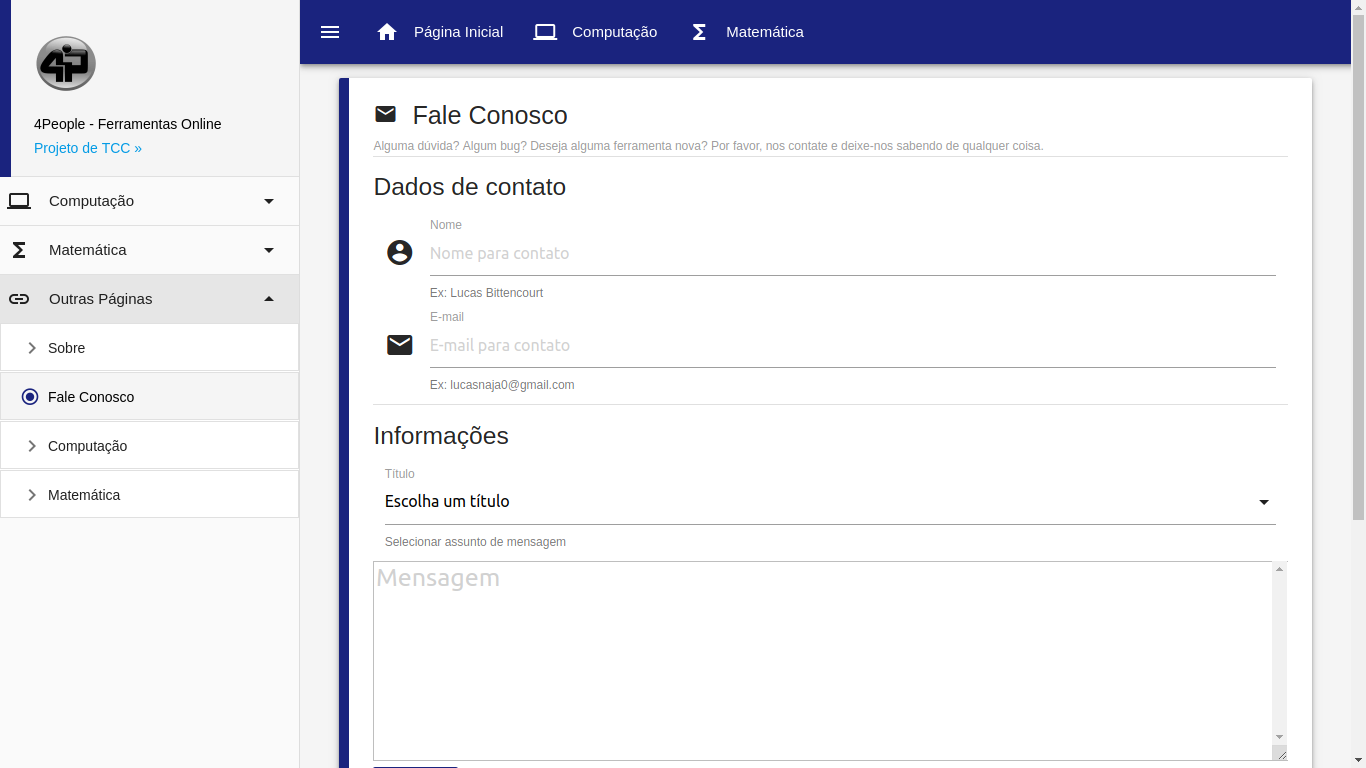
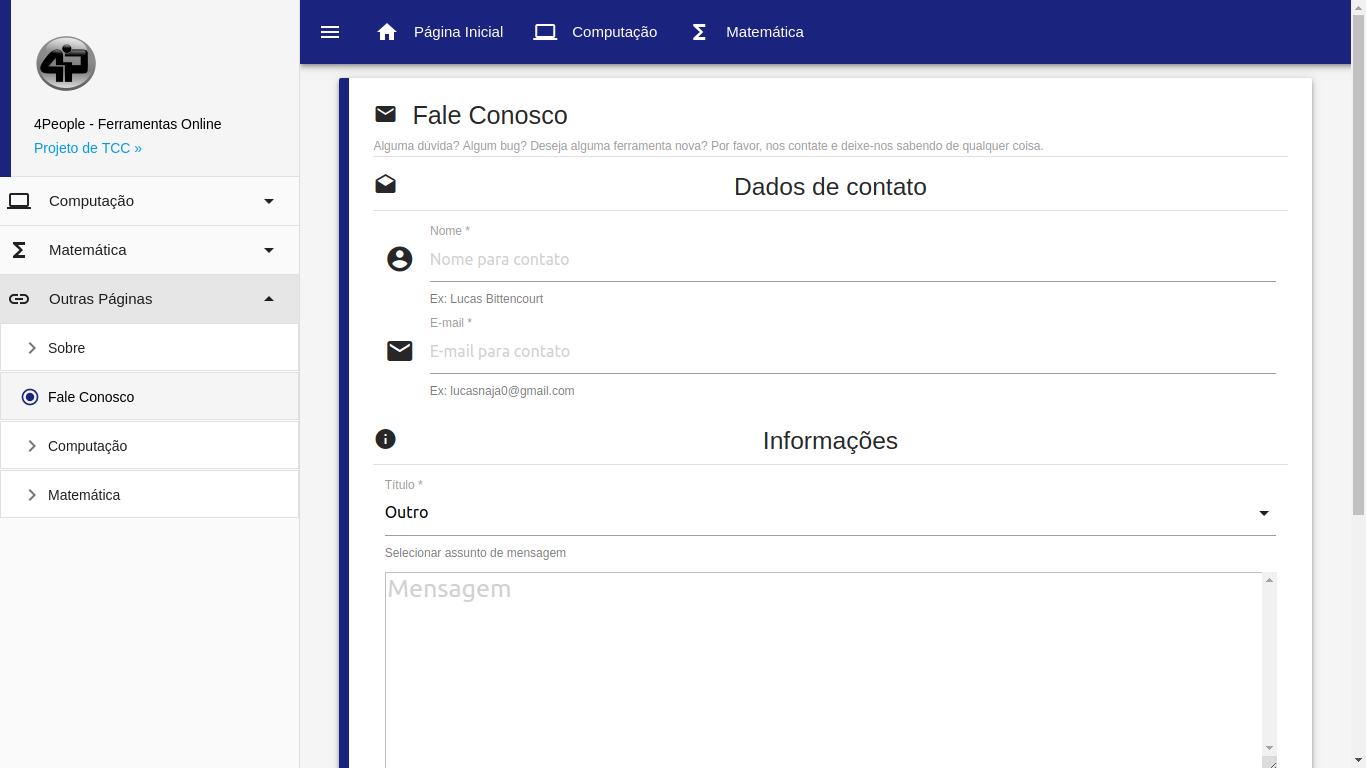
UI enhancements

diff --git a/admin/painel_administrativo/administradores/index.php b/admin/painel_administrativo/administradores/index.php
@@ -60,7 +60,8 @@ if (!isset($_SESSION['logged'])) {
 
 						<div class="input-field col s12 m6">
 							<i class="material-icons prefix">https</i>
-							<input id="admin_password" minlength="6" title="Preencha este campo com a senha." placeholder="Senha do Administrador" class="validate" type="password" name="admin_password" oninvalid="this.setCustomValidity('Preencha este campo com a senha.')" oninput="setCustomValidity('')" required>
+							<input id="admin_password" style="width:calc(100% - 4.5rem)" minlength="6" title="Preencha este campo com a senha." placeholder="Senha do Administrador" class="validate" type="password" name="admin_password" oninvalid="this.setCustomValidity('Preencha este campo com a senha.')" oninput="setCustomValidity('')" required>
+							<i id="visibility" onclick="switchVisibility()" class="material-icons prefix" style="cursor:pointer">visibility</i>
 							<label class="active" for="admin_password">Senha *</label>
 							<span class="helper-text" data-error="Senha inválida. Tamanho mínimo: 6" data-success="Senha válida.">Aguardando...</span>
 						</div>
@@ -143,7 +144,20 @@ if (!isset($_SESSION['logged'])) {
 		const admins = document.querySelector('#admins')
 		const modals = document.querySelector('#modals')
 		const inputs = form.querySelectorAll('input')
+		const btnSubmit = form.querySelector('button')
 		const admin_name_search = document.querySelector('#admin_name_search')
+		const txtPassword = document.querySelector('input[name=admin_password]')
+		const txtPasswordIcon = document.querySelector('#visibility')
+
+		const switchVisibility = () => {
+			if (txtPassword.type === 'password') {
+				txtPassword.type = 'text'
+				txtPasswordIcon.innerText = 'visibility_off'
+			} else {
+				txtPassword.type = 'password'
+				txtPasswordIcon.innerText = 'visibility_on'
+			}
+		}
 
 		const createAutoComplete = data => {
 			const filteredData = {}
@@ -158,6 +172,7 @@ if (!isset($_SESSION['logged'])) {
 
 		form.onsubmit = async e => {
 			e.preventDefault()
+			btnSubmit.disabled = true
 			const data = new FormData(form)
 
 			const result = await (await fetch('src/insert_admin.php', {
@@ -186,6 +201,8 @@ if (!isset($_SESSION['logged'])) {
 					classes: 'red accent-4'
 				})
 			}
+
+			btnSubmit.disabled = false
 		}
 
 		const selectAdmins = async (name = '') => await (await fetch(`src/select_admins.php?admin_name=${name}`)).json()

diff --git a/contato/index.php b/contato/index.php
@@ -38,7 +38,8 @@
 				<label>Alguma dúvida? Algum bug? Deseja alguma ferramenta nova? Por favor, nos contate e deixe-nos sabendo de qualquer coisa.</label>
 				<div class="divider"></div>
 
-				<h5>Dados de contato</h5>
+				<h5 class="mb-2 center-align" style="position:relative"><i class="material-icons" style="position:absolute;left:0">drafts</i>Dados de contato</h5>
+				<div class="divider" style="margin-bottom:15px"></div>
 
 				<form class="mt-2" method="POST">
 					<div class="row mb-0">
@@ -57,9 +58,9 @@
 						</div>
 					</div>
 
-					<div class="divider"></div>
+					<h5 class="mb-2 center-align" style="position:relative"><i class="material-icons" style="position:absolute;left:0">info</i>Informações</h5>
+					<div class="divider" style="margin-bottom:15px"></div>
 
-					<h5>Informações</h5>
 					<div class="row mb-0">
 						<div class="input-field col s12">
 							<select name="message_subject">
@@ -72,13 +73,19 @@
 							<label>Título *</label>
 							<span class="helper-text">Selecionar assunto de mensagem</span>
 						</div>
+
+						<div class="col s12">
+							<textarea name="message_content" placeholder="Mensagem" oninvalid="this.setCustomValidity('Preencha este campo com a mensagem.')" oninput="setCustomValidity('')" spellcheck="false" required></textarea>
+						</div>
+
+						<div class="col s12">
+							<div class="divider"></div>
+							<button title="Inserir um Administrador no 4People" class="btn waves-effect waves-light indigo darken-4 z-depth-0">
+								<i class="material-icons right">send</i>Enviar Mensagem
+								<input class="hide" type="submit" value="">
+							</button>
+						</div>
 					</div>
-
-					<textarea name="message_content" placeholder="Mensagem" oninvalid="this.setCustomValidity('Preencha este campo com a mensagem.')" oninput="setCustomValidity('')" spellcheck="false" required></textarea>
-
-					<button title="Enviar Mensagem" class="btn waves-effect waves-light indigo darken-4 z-depth-0" type="submit">
-						Enviar
-					</button>
 				</form>
 
 				<div class="left-div indigo darken-4"></div>
